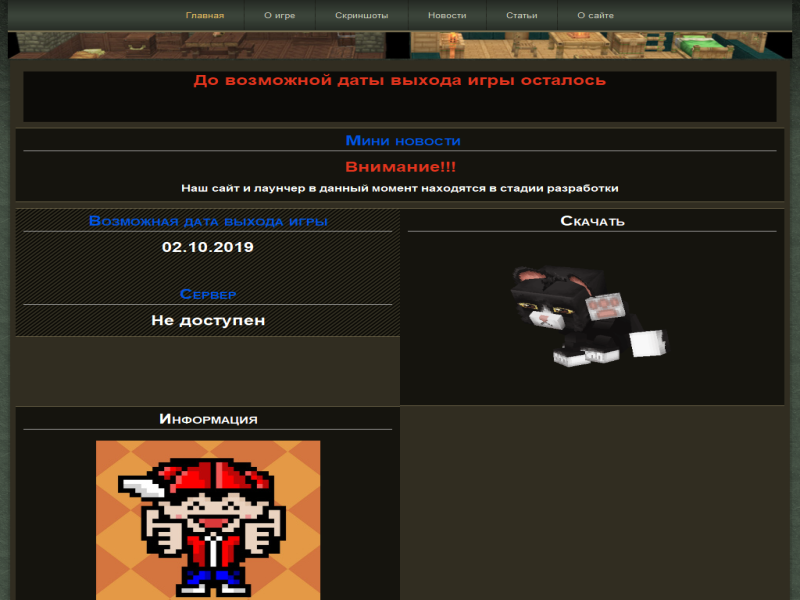
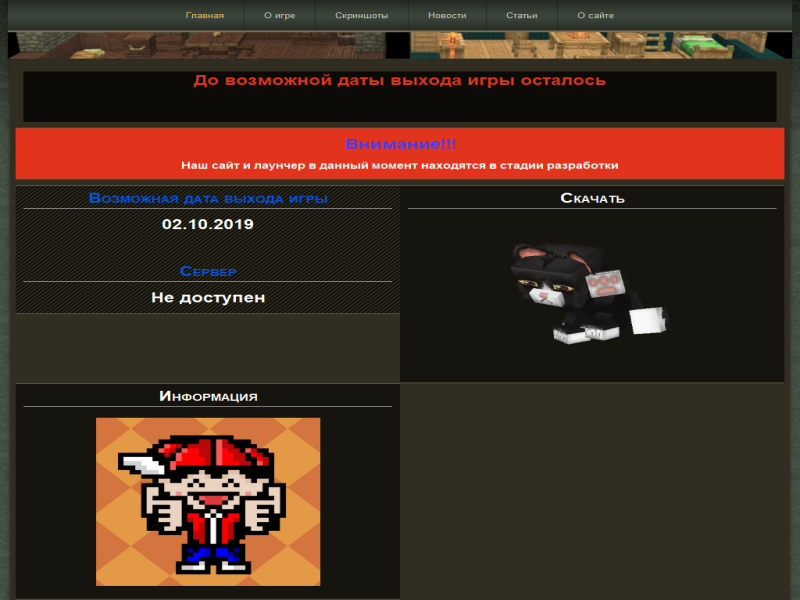
Обновление сайта

Changed region(s): [[0.0, 0.21, 1.0, 1.0]]

diff --git a/index.html b/index.html
@@ -20,9 +20,10 @@
 .art-content .art-postcontent-0 .layout-item-2 { color: #BAB097; padding-right: 10px;padding-left: 10px;  }
 .art-content .art-postcontent-0 .layout-item-3 { margin-bottom: 10px;  }
 .art-content .art-postcontent-0 .layout-item-4 { border-spacing: 10px 0px; border-collapse: separate;  }
-.art-content .art-postcontent-0 .layout-item-5 { border-top-style:solid;border-right-style:solid;border-bottom-style:solid;border-left-style:solid;border-top-width:1px;border-right-width:1px;border-bottom-width:1px;border-left-width:1px;border-top-color:#776D50;border-right-color:#776D50;border-bottom-color:#776D50;border-left-color:#776D50; color: #BCB39A; background: #15140E; padding-right: 10px;padding-left: 10px;  }
+.art-content .art-postcontent-0 .layout-item-5 { border-top-style:solid;border-right-style:solid;border-bottom-style:solid;border-left-style:solid;border-top-width:1px;border-right-width:1px;border-bottom-width:1px;border-left-width:1px;border-top-color:#776D50;border-right-color:#776D50;border-bottom-color:#776D50;border-left-color:#776D50; color: #000000; background: #E2341D; padding-right: 10px;padding-left: 10px;  }
 .art-content .art-postcontent-0 .layout-item-6 { border-top-style:solid;border-right-style:solid;border-bottom-style:solid;border-left-style:solid;border-top-width:1px;border-right-width:1px;border-bottom-width:1px;border-left-width:1px;border-top-color:#776D50;border-right-color:#776D50;border-bottom-color:#776D50;border-left-color:#776D50; color: #C0B7A0; background: #0C0B08 url('images/d70e2.png') scroll; padding-right: 10px;padding-left: 10px;  }
-.art-content .art-postcontent-0 .layout-item-7 { border-top-style:solid;border-right-style:solid;border-bottom-style:solid;border-left-style:solid;border-top-width:1px;border-right-width:1px;border-bottom-width:1px;border-left-width:1px;border-top-color:#776D50;border-right-color:#776D50;border-bottom-color:#776D50;border-left-color:#776D50; color: #000000; background: #15140E; padding-right: 10px;padding-left: 10px;  }
+.art-content .art-postcontent-0 .layout-item-7 { border-top-style:solid;border-right-style:solid;border-bottom-style:solid;border-left-style:solid;border-top-width:1px;border-right-width:1px;border-bottom-width:1px;border-left-width:1px;border-top-color:#776D50;border-right-color:#776D50;border-bottom-color:#776D50;border-left-color:#776D50; color: #BCB39A; background: #15140E; padding-right: 10px;padding-left: 10px;  }
+.art-content .art-postcontent-0 .layout-item-8 { border-top-style:solid;border-right-style:solid;border-bottom-style:solid;border-left-style:solid;border-top-width:1px;border-right-width:1px;border-bottom-width:1px;border-left-width:1px;border-top-color:#776D50;border-right-color:#776D50;border-bottom-color:#776D50;border-left-color:#776D50; color: #000000; background: #15140E; padding-right: 10px;padding-left: 10px;  }
 .ie7 .post .layout-cell {border:none !important; padding:0 !important; }
 .ie6 .post .layout-cell {border:none !important; padding:0 !important; }
 
@@ -56,7 +57,7 @@
     <div class="art-layout-cell layout-item-2" style="width: 100%" >
         <p style="text-align: center;"><span style="color: rgb(226, 52, 29); font-size: 24px; font-weight: bold; -webkit-border-horizontal-spacing: 10px;">До возможной даты выхода игры осталось</span></p>
         <p style="text-align: center;"><script src="//megatimer.ru/get/0127cafc19a0a178740f051ac1e80139.js" type="text/javascript">
-                </script></p>
+                                        </script></p>
     </div>
     </div>
 </div>
@@ -65,8 +66,7 @@
 <div class="art-content-layout layout-item-4">
     <div class="art-content-layout-row">
     <div class="art-layout-cell layout-item-5" style="width: 100%" >
-        <h3 style="padding-bottom: 5px; border-bottom-width: 1px; border-bottom-style: solid; border-bottom-color: rgb(189, 189, 189);"><span style="color: rgb(192, 183, 160);"><span style="font-size: 24px; font-weight: bold; color: rgb(0, 84, 229);">&nbsp;Мини новости</span></span></h3>
-        <p style="text-align: center;"><span style="font-size: 24px; font-weight: bold; color: rgb(226, 52, 29);">Внимание!!!</span></p>
+        <p style="text-align: center;"><span style="font-size: 24px; font-weight: bold; color: #443DFF;">Внимание!!!</span></p>
         <p style="text-align: center;"><span style="color: rgb(255, 255, 255); font-weight: bold; font-size: 16px;">Наш сайт и лаунчер в данный момент находятся в стадии разработки</span></p>
     </div>
     </div>
@@ -81,12 +81,12 @@
         <p style="text-align: center;"><span style="color: rgb(255, 255, 255); font-size: 24px; font-weight: bold;"><br></span></p>
         <h3 style="padding-bottom: 5px; border-bottom-width: 1px; border-bottom-style: solid; border-bottom-color: rgb(189, 189, 189);"><span style="font-size: 24px; font-weight: bold; color: rgb(0, 84, 229);">Сервер</span></h3>
         <p style="text-align: center;"><span style="color: rgb(255, 255, 255); font-size: 24px; font-weight: bold;">Не доступен</span></p>
-    </div><div class="art-layout-cell layout-item-5" style="width: 34%" >
+    </div><div class="art-layout-cell layout-item-7" style="width: 34%" >
         <h3 style="padding-bottom: 5px; border-bottom-width: 1px; border-bottom-style: solid; border-bottom-color: rgb(189, 189, 189);"><span style="color: rgb(255, 255, 255); font-size: 24px; font-weight: bold;">Скачать</span></h3>
         <p style="text-align: center;"><a href="down.html"><img width="296" height="256" alt="" src="images/5c116cf1a8abd90012df93f2_fungif_3___cute_cat.gif" style="border-top-width: 0px; border-right-width: 0px; border-bottom-width: 0px; border-left-width: 0px; " class=""></a></p>
-    </div><div class="art-layout-cell layout-item-7" style="width: 33%" >
+    </div><div class="art-layout-cell layout-item-8" style="width: 33%" >
         <h3 style="padding-bottom: 5px; border-bottom-width: 1px; border-bottom-style: solid; border-bottom-color: rgb(189, 189, 189);"><span style="color: rgb(255, 255, 255); font-size: 24px; font-weight: bold;">Информация</span></h3>
-        <p style="text-align: center;"><a href="info.html"><img width="287" height="287" alt="" src="images/unnamed-2.jpg" style="border-top-width: 0px; border-right-width: 0px; border-bottom-width: 0px; border-left-width: 0px; " class=""></a><br></p>
+        <p style="text-align: center;"><a href="info.html"><img width="287" height="287" alt="" src="images/unnamed-2.jpg" style="border-top-width: 0px; border-right-width: 0px; border-bottom-width: 0px; border-left-width: 0px;" class=""></a><br></p>
     </div>
     </div>
 </div>
